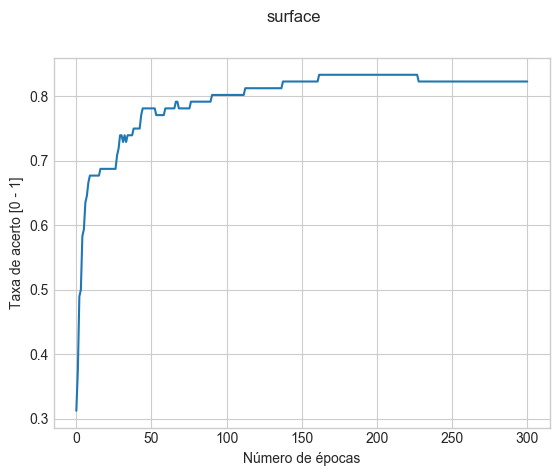
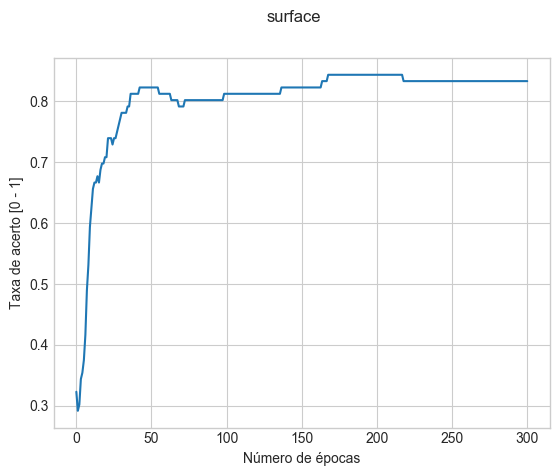
Achieving results corectly

diff --git a/MLP.py b/MLP.py
@@ -11,7 +11,7 @@ datasets = [ClassificationDatasets.IRIS]
 # datasets = [Datasets.IRIS, Datasets.ARTIFICIAL_XOR]
 NUMBER_OF_FOLDS = 5
 NUMBER_OF_REALIZATIONS = 3
-
+NUMBER_OF_EPOCHS = 200
 # NEURONS_RANGE = range(3, 6, 2)
 NEURONS_RANGE = [5, 12]
 
@@ -35,20 +35,21 @@ for dataset in datasets:
             for i in range(0, NUMBER_OF_FOLDS):
 
                 perceptron = MultiLayerPerceptron(hidden_number=number_of_neurons)
-                result = perceptron.fit(x_TRAINS[i], y_TRAINS[i], dataset.value, error_graph=True, epochs=500)
+                result = perceptron.fit(x_TRAINS[i], y_TRAINS[i], dataset.value, error_graph=True, epochs=NUMBER_OF_EPOCHS)
                 perceptron.weights, perceptron.hidden_weights = result
 
-                correctness = perceptron.evaluate(x_TESTS[i], y_TESTS[i], should_print_confusion_matrix=True if index == 0 and i == 0 else False)
+                # correctness = perceptron.evaluate(x_TESTS[i], y_TESTS[i], should_print_confusion_matrix=True if index == 0 and i == 0 else False)
+                correctness = perceptron.evaluate(x_TESTS[i], y_TESTS[i], should_print_confusion_matrix=False)
                 correctness_sum += correctness
-                if index == 0 and i == 0:
-                    perceptron.plot_decision_surface(x_TRAINS[i], y_TRAINS[i], x_TESTS[i], y_TESTS[i], 'MLP - '+dataset.value)
+                # if index == 0 and i == 0:
+                #     perceptron.plot_decision_surface(x_TRAINS[i], y_TRAINS[i], x_TESTS[i], y_TESTS[i], 'MLP - '+dataset.value)
 
         results[str(number_of_neurons)] = correctness_sum/(NUMBER_OF_FOLDS*NUMBER_OF_REALIZATIONS)
 
-    best_combination = sorted(results.items(), key=lambda x: x[0], reverse=True)[0]
+    best_combination = sorted(results.items(), key=lambda x: x[0], reverse=False)[0]
     print(str(best_combination) + ' best combination for ' + dataset.value)
     perceptron = MultiLayerPerceptron(hidden_number=int(best_combination[0]))
-    results = perceptron.fit(x_TRAINNING, y_TRAINNING, dataset.value, error_graph=True, epochs=500)
+    results = perceptron.fit(x_TRAINNING, y_TRAINNING, dataset.value, error_graph=True, epochs=NUMBER_OF_EPOCHS)
     perceptron.weights, perceptron.hidden_weights = results
 
     result = perceptron.evaluate(x_VALIDATION, y_VALIDATION, should_print_confusion_matrix=True)

diff --git a/data_manager.py b/data_manager.py
@@ -50,6 +50,7 @@ class DataManager:
             scaler = MinMaxScaler(feature_range=(0, 1))
             x = scaler.fit_transform(self.X)
             self.X = x
+            self.Y = self.one_hot_encoding(self.Y)
 
     def one_hot_encoding(self, y_labels):
 
@@ -68,9 +69,7 @@ class DataManager:
 
     def split_train_test_5fold(self, X, Y, validation=False, hasvalidation=False):
 
-        encoded_Y = self.one_hot_encoding(Y) if hasvalidation else Y
-
-        c = list(zip(np.array(X), np.array(encoded_Y)))
+        c = list(zip(np.array(X), np.array(Y)))
         random.shuffle(c)
         X_shuffled, Y_shuffled = zip(*c)
 
